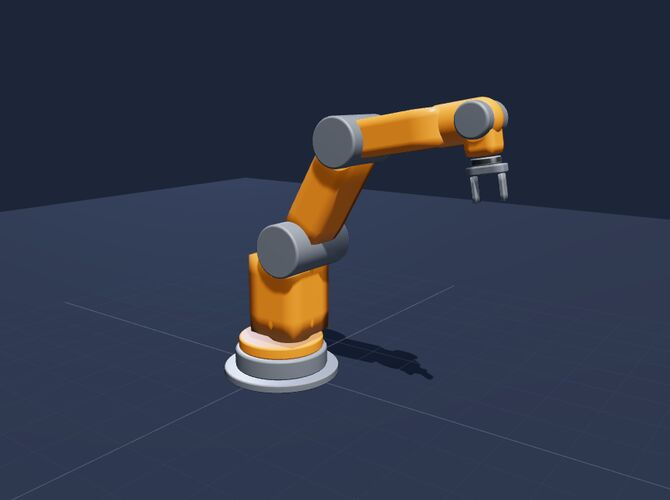
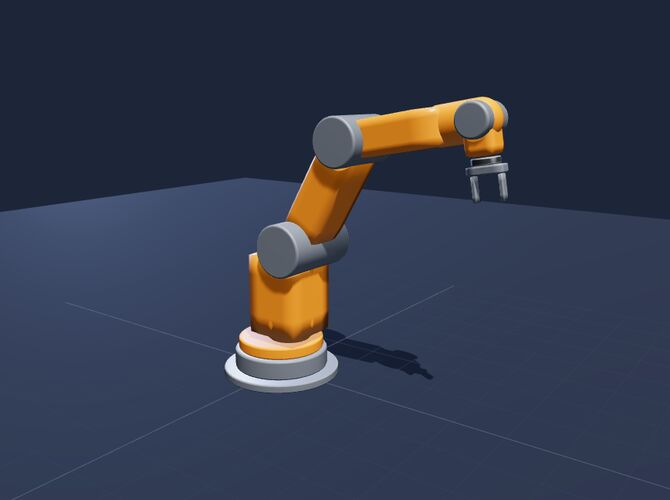
Dark mode: a soft rim light on every 3D view, and the gallery joint rings
- RA.darkParts adds a cool, low back light (made from the key light of each scene)
  in dark mode only: it outlines the parts, black tyres included, without lighting
  the floor much. Off in light mode.
- Home gallery: its colours are recomputed from a base, so darkParts now tells it to
  recompute; the small black joint rings become graphite like everywhere else.
- Dark thumbnails re-rendered.

Claude-Session: https://claude.ai/code/session_015VqmnNLeFGZq3AXD4Dp2x4

diff --git a/sw.js b/sw.js
@@ -1,7 +1,7 @@
 // sw.js — generated by tools/build-offline.mjs from tools/sw-src.js: do not edit.
-const VERSION = 'b208fe3f3b', SIZE = 6136980;
-const FILES = {"/404.html":"8da2896bfe","/anatomy-cobot.html":"7d10f8a178","/anatomy-delta.html":"abfc04b726","/anatomy-drives.html":"709df47092","/anatomy-gantry.html":"e976796c89","/anatomy-humanoid.html":"1c500f632e","/anatomy-mobile.html":"6033337528","/anatomy-quadrotor.html":"a2779ee015","/anatomy-scara.html":"f6701099e2","/anatomy-stewart.html":"2a8febbaf9","/anatomy-wheels.html":"84d128e5ca","/anatomy.html":"a5cc754e46","/anatomy.js":"533faaa633","/arm.html":"9c291c0d91","/articulated.html":"3ca4e13825","/build.html":"7d7dfbf3de","/build.js":"0a2baa5079","/certificate.html":"a6a7211ef2","/certificate.js":"ab7075d874","/cobot.html":"0cbf7553ad","/courses.js":"a4b9db9717","/delta.html":"733be8f32e","/dharm.js":"f252a8bdfb","/gantry.html":"7a193c1d16","/glossary-data.js":"711968298a","/glossary.html":"e0e524d82c","/glossary.js":"a9f3a57f23","/helpers.js":"b4971d3e57","/i18n/fr-404.js":"b7c9798e34","/i18n/fr-anatomy-cobot.js":"61a14319c6","/i18n/fr-anatomy-delta.js":"a361272e30","/i18n/fr-anatomy-drives.js":"3dfd6859ee","/i18n/fr-anatomy-gantry.js":"671c38ec9e","/i18n/fr-anatomy-humanoid.js":"395565af9a","/i18n/fr-anatomy-mobile.js":"664b4f1b48","/i18n/fr-anatomy-quadrotor.js":"90fc91787a","/i18n/fr-anatomy-scara.js":"333783da16","/i18n/fr-anatomy-stewart.js":"1517fa8690","/i18n/fr-anatomy-wheels.js":"bbdad603aa","/i18n/fr-anatomy.js":"df3d3ff246","/i18n/fr-arm.js":"2fc722f1e5","/i18n/fr-articulated.js":"3405e2fcbe","/i18n/fr-build.js":"599c9b5ad7","/i18n/fr-cobot.js":"427e255d11","/i18n/fr-common.js":"edbf6d9fe4","/i18n/fr-delta.js":"a85602b153","/i18n/fr-gantry.js":"c42f143b51","/i18n/fr-index.js":"7d1c059d77","/i18n/fr-learn-advanced.js":"61172f6fa8","/i18n/fr-learn-armlab.js":"bd4cda8709","/i18n/fr-learn-control.js":"384ea91f48","/i18n/fr-learn-intelligence.js":"941cf5bc75","/i18n/fr-learn-mathkit.js":"fa55b6744c","/i18n/fr-learn-maths.js":"f627261e01","/i18n/fr-learn-mobile-pro.js":"2d7e75d703","/i18n/fr-learn-mobile.js":"33ba8b2d70","/i18n/fr-learn-model.js":"919ecc5874","/i18n/fr-learn-ros.js":"602763de5f","/i18n/fr-learn-singularities.js":"d5bd02c934","/i18n/fr-learn-world.js":"aa27b7d829","/i18n/fr-learn.js":"d456d2f035","/i18n/fr-mobile.js":"7afb8fba3a","/i18n/fr-scara.js":"ffeb5e9ad7","/i18n/fr-wheels.js":"a13de46aca","/icons/apple-touch-icon.png":"00f0670f9f","/icons/icon-192.png":"ba0ef106c9","/icons/icon-512.png":"3983a293fb","/icons/maskable-512.png":"b1db7520b1","/index.html":"6ebba96c9d","/inside-demo.js":"fc4b6abd6a","/learn-advanced.html":"4c3f66c544","/learn-armlab.html":"98c005a104","/learn-control.html":"db00d1adfe","/learn-intelligence.html":"a782210d76","/learn-mathkit.html":"fcd1708c96","/learn-maths.html":"1747dcea95","/learn-mobile-pro.html":"8bf43fc07d","/learn-mobile-widgets.js":"19a711a9ef","/learn-mobile.html":"18a5aeb9b1","/learn-model.html":"e087a017da","/learn-more-widgets.js":"95f8081e6a","/learn-ros.html":"e59e09bc45","/learn-singularities.html":"7db6a141f5","/learn-widgets.js":"86e5dd2661","/learn-world.html":"3a8d499bc0","/learn.html":"69f4b6a049","/lesson-quiz.js":"42c2b9499c","/logo.svg":"438dd51dd6","/manifest.webmanifest":"ee43b67fc0","/mobile.html":"38676a123f","/nav.js":"65dca0fab5","/offline.html":"75f692a716","/ops-demo.js":"f43761d966","/revision-data.js":"56ef77afc0","/revision.html":"f0fbcb7907","/revision.js":"6e67e8ffc8","/scara.html":"e84573f74f","/search-index.js":"d1ac932e4c","/search.js":"9e34079316","/sensors.html":"55313d685d","/sensors.js":"adfc65aced","/style.css":"29efdb93d9","/system-demo.js":"70890a7894","/thumbs/anatomy-cobot-dark.jpg":"8f806f60cb","/thumbs/anatomy-cobot.jpg":"945d4b3ce7","/thumbs/anatomy-dark.jpg":"6aaddd8c79","/thumbs/anatomy-delta-dark.jpg":"989d9248da","/thumbs/anatomy-delta.jpg":"6f555a41b8","/thumbs/anatomy-drives-dark.jpg":"f8dc3db4b0","/thumbs/anatomy-drives.jpg":"3492d264ef","/thumbs/anatomy-gantry-dark.jpg":"f7626939e7","/thumbs/anatomy-gantry.jpg":"b3f76550f3","/thumbs/anatomy-humanoid-dark.jpg":"3c8f4699f4","/thumbs/anatomy-humanoid.jpg":"f708a99300","/thumbs/anatomy-mobile-dark.jpg":"a59d07af3c","/thumbs/anatomy-mobile.jpg":"b60e58446c","/thumbs/anatomy-quadrotor-dark.jpg":"cdfbd088ce","/thumbs/anatomy-quadrotor.jpg":"1b029683c1","/thumbs/anatomy-scara-dark.jpg":"089d8eb42d","/thumbs/anatomy-scara.jpg":"70d4036498","/thumbs/anatomy-stewart-dark.jpg":"5ab9feea4c","/thumbs/anatomy-stewart.jpg":"e3f5e710b4","/thumbs/anatomy-wheels-dark.jpg":"48bec5cbeb","/thumbs/anatomy-wheels.jpg":"02136686d9","/thumbs/anatomy.jpg":"b8d89487b3","/vendor/addons/controls/OrbitControls.js":"7909173281","/vendor/three.module.min.js":"2992ecd75d","/wheel-lab.js":"474f507834","/wheels.html":"65b2316230"};
-const SIZES = {"/404.html":1751,"/anatomy-cobot.html":14488,"/anatomy-delta.html":14453,"/anatomy-drives.html":15834,"/anatomy-gantry.html":14316,"/anatomy-humanoid.html":16268,"/anatomy-mobile.html":14597,"/anatomy-quadrotor.html":15723,"/anatomy-scara.html":14083,"/anatomy-stewart.html":15492,"/anatomy-wheels.html":15209,"/anatomy.html":14536,"/anatomy.js":93303,"/arm.html":17492,"/articulated.html":34048,"/build.html":2147,"/build.js":41249,"/certificate.html":1779,"/certificate.js":11669,"/cobot.html":33638,"/courses.js":4521,"/delta.html":40661,"/dharm.js":7212,"/gantry.html":19830,"/glossary-data.js":83474,"/glossary.html":1822,"/glossary.js":7125,"/helpers.js":9318,"/i18n/fr-404.js":416,"/i18n/fr-anatomy-cobot.js":3704,"/i18n/fr-anatomy-delta.js":4078,"/i18n/fr-anatomy-drives.js":5220,"/i18n/fr-anatomy-gantry.js":3921,"/i18n/fr-anatomy-humanoid.js":5770,"/i18n/fr-anatomy-mobile.js":4173,"/i18n/fr-anatomy-quadrotor.js":5224,"/i18n/fr-anatomy-scara.js":3557,"/i18n/fr-anatomy-stewart.js":4839,"/i18n/fr-anatomy-wheels.js":4821,"/i18n/fr-anatomy.js":3693,"/i18n/fr-arm.js":5690,"/i18n/fr-articulated.js":8775,"/i18n/fr-build.js":346,"/i18n/fr-cobot.js":11159,"/i18n/fr-common.js":9616,"/i18n/fr-delta.js":12909,"/i18n/fr-gantry.js":6690,"/i18n/fr-index.js":11995,"/i18n/fr-learn-advanced.js":66498,"/i18n/fr-learn-armlab.js":32670,"/i18n/fr-learn-control.js":104453,"/i18n/fr-learn-intelligence.js":65307,"/i18n/fr-learn-mathkit.js":90003,"/i18n/fr-learn-maths.js":52007,"/i18n/fr-learn-mobile-pro.js":151135,"/i18n/fr-learn-mobile.js":125679,"/i18n/fr-learn-model.js":78628,"/i18n/fr-learn-ros.js":58956,"/i18n/fr-learn-singularities.js":65849,"/i18n/fr-learn-world.js":76717,"/i18n/fr-learn.js":35993,"/i18n/fr-mobile.js":8757,"/i18n/fr-scara.js":6606,"/i18n/fr-wheels.js":30722,"/icons/apple-touch-icon.png":2867,"/icons/icon-192.png":5748,"/icons/icon-512.png":16840,"/icons/maskable-512.png":7246,"/index.html":80101,"/inside-demo.js":79937,"/learn-advanced.html":102382,"/learn-armlab.html":61892,"/learn-control.html":170846,"/learn-intelligence.html":106162,"/learn-mathkit.html":148640,"/learn-maths.html":104749,"/learn-mobile-pro.html":181318,"/learn-mobile-widgets.js":74650,"/learn-mobile.html":146762,"/learn-model.html":178189,"/learn-more-widgets.js":38015,"/learn-ros.html":120578,"/learn-singularities.html":100869,"/learn-widgets.js":10300,"/learn-world.html":116331,"/learn.html":97096,"/lesson-quiz.js":10831,"/logo.svg":456,"/manifest.webmanifest":785,"/mobile.html":30163,"/nav.js":50301,"/offline.html":4270,"/ops-demo.js":88834,"/revision-data.js":226171,"/revision.html":1773,"/revision.js":6057,"/scara.html":27280,"/search-index.js":378933,"/search.js":9405,"/sensors.html":1834,"/sensors.js":47046,"/style.css":163446,"/system-demo.js":136819,"/thumbs/anatomy-cobot-dark.jpg":12796,"/thumbs/anatomy-cobot.jpg":25754,"/thumbs/anatomy-dark.jpg":14210,"/thumbs/anatomy-delta-dark.jpg":14446,"/thumbs/anatomy-delta.jpg":31655,"/thumbs/anatomy-drives-dark.jpg":12321,"/thumbs/anatomy-drives.jpg":19386,"/thumbs/anatomy-gantry-dark.jpg":15379,"/thumbs/anatomy-gantry.jpg":34232,"/thumbs/anatomy-humanoid-dark.jpg":11673,"/thumbs/anatomy-humanoid.jpg":35261,"/thumbs/anatomy-mobile-dark.jpg":9134,"/thumbs/anatomy-mobile.jpg":18117,"/thumbs/anatomy-quadrotor-dark.jpg":9784,"/thumbs/anatomy-quadrotor.jpg":15499,"/thumbs/anatomy-scara-dark.jpg":12754,"/thumbs/anatomy-scara.jpg":31690,"/thumbs/anatomy-stewart-dark.jpg":13938,"/thumbs/anatomy-stewart.jpg":31592,"/thumbs/anatomy-wheels-dark.jpg":21527,"/thumbs/anatomy-wheels.jpg":42363,"/thumbs/anatomy.jpg":31308,"/vendor/addons/controls/OrbitControls.js":29868,"/vendor/three.module.min.js":670681,"/wheel-lab.js":31986,"/wheels.html":61090};
+const VERSION = 'bb93137cd6', SIZE = 6141405;
+const FILES = {"/404.html":"8da2896bfe","/anatomy-cobot.html":"7d10f8a178","/anatomy-delta.html":"abfc04b726","/anatomy-drives.html":"709df47092","/anatomy-gantry.html":"e976796c89","/anatomy-humanoid.html":"1c500f632e","/anatomy-mobile.html":"6033337528","/anatomy-quadrotor.html":"a2779ee015","/anatomy-scara.html":"f6701099e2","/anatomy-stewart.html":"2a8febbaf9","/anatomy-wheels.html":"84d128e5ca","/anatomy.html":"a5cc754e46","/anatomy.js":"533faaa633","/arm.html":"9c291c0d91","/articulated.html":"3ca4e13825","/build.html":"7d7dfbf3de","/build.js":"0a2baa5079","/certificate.html":"a6a7211ef2","/certificate.js":"ab7075d874","/cobot.html":"0cbf7553ad","/courses.js":"a4b9db9717","/delta.html":"733be8f32e","/dharm.js":"f252a8bdfb","/gantry.html":"7a193c1d16","/glossary-data.js":"711968298a","/glossary.html":"e0e524d82c","/glossary.js":"a9f3a57f23","/helpers.js":"b4971d3e57","/i18n/fr-404.js":"b7c9798e34","/i18n/fr-anatomy-cobot.js":"61a14319c6","/i18n/fr-anatomy-delta.js":"a361272e30","/i18n/fr-anatomy-drives.js":"3dfd6859ee","/i18n/fr-anatomy-gantry.js":"671c38ec9e","/i18n/fr-anatomy-humanoid.js":"395565af9a","/i18n/fr-anatomy-mobile.js":"664b4f1b48","/i18n/fr-anatomy-quadrotor.js":"90fc91787a","/i18n/fr-anatomy-scara.js":"333783da16","/i18n/fr-anatomy-stewart.js":"1517fa8690","/i18n/fr-anatomy-wheels.js":"bbdad603aa","/i18n/fr-anatomy.js":"df3d3ff246","/i18n/fr-arm.js":"2fc722f1e5","/i18n/fr-articulated.js":"3405e2fcbe","/i18n/fr-build.js":"599c9b5ad7","/i18n/fr-cobot.js":"427e255d11","/i18n/fr-common.js":"edbf6d9fe4","/i18n/fr-delta.js":"a85602b153","/i18n/fr-gantry.js":"c42f143b51","/i18n/fr-index.js":"7d1c059d77","/i18n/fr-learn-advanced.js":"61172f6fa8","/i18n/fr-learn-armlab.js":"bd4cda8709","/i18n/fr-learn-control.js":"384ea91f48","/i18n/fr-learn-intelligence.js":"941cf5bc75","/i18n/fr-learn-mathkit.js":"fa55b6744c","/i18n/fr-learn-maths.js":"f627261e01","/i18n/fr-learn-mobile-pro.js":"2d7e75d703","/i18n/fr-learn-mobile.js":"33ba8b2d70","/i18n/fr-learn-model.js":"919ecc5874","/i18n/fr-learn-ros.js":"602763de5f","/i18n/fr-learn-singularities.js":"d5bd02c934","/i18n/fr-learn-world.js":"aa27b7d829","/i18n/fr-learn.js":"d456d2f035","/i18n/fr-mobile.js":"7afb8fba3a","/i18n/fr-scara.js":"ffeb5e9ad7","/i18n/fr-wheels.js":"a13de46aca","/icons/apple-touch-icon.png":"00f0670f9f","/icons/icon-192.png":"ba0ef106c9","/icons/icon-512.png":"3983a293fb","/icons/maskable-512.png":"b1db7520b1","/index.html":"cc30bdda93","/inside-demo.js":"fc4b6abd6a","/learn-advanced.html":"4c3f66c544","/learn-armlab.html":"98c005a104","/learn-control.html":"db00d1adfe","/learn-intelligence.html":"a782210d76","/learn-mathkit.html":"fcd1708c96","/learn-maths.html":"1747dcea95","/learn-mobile-pro.html":"8bf43fc07d","/learn-mobile-widgets.js":"19a711a9ef","/learn-mobile.html":"18a5aeb9b1","/learn-model.html":"e087a017da","/learn-more-widgets.js":"95f8081e6a","/learn-ros.html":"e59e09bc45","/learn-singularities.html":"7db6a141f5","/learn-widgets.js":"86e5dd2661","/learn-world.html":"3a8d499bc0","/learn.html":"69f4b6a049","/lesson-quiz.js":"42c2b9499c","/logo.svg":"438dd51dd6","/manifest.webmanifest":"ee43b67fc0","/mobile.html":"38676a123f","/nav.js":"7959ff7ac2","/offline.html":"75f692a716","/ops-demo.js":"f43761d966","/revision-data.js":"56ef77afc0","/revision.html":"f0fbcb7907","/revision.js":"6e67e8ffc8","/scara.html":"e84573f74f","/search-index.js":"d1ac932e4c","/search.js":"9e34079316","/sensors.html":"55313d685d","/sensors.js":"adfc65aced","/style.css":"29efdb93d9","/system-demo.js":"70890a7894","/thumbs/anatomy-cobot-dark.jpg":"2da05751a7","/thumbs/anatomy-cobot.jpg":"945d4b3ce7","/thumbs/anatomy-dark.jpg":"4e9cc06fc1","/thumbs/anatomy-delta-dark.jpg":"c63cb02216","/thumbs/anatomy-delta.jpg":"6f555a41b8","/thumbs/anatomy-drives-dark.jpg":"297e0c0f0b","/thumbs/anatomy-drives.jpg":"3492d264ef","/thumbs/anatomy-gantry-dark.jpg":"dffd20ad75","/thumbs/anatomy-gantry.jpg":"b3f76550f3","/thumbs/anatomy-humanoid-dark.jpg":"deafb819b0","/thumbs/anatomy-humanoid.jpg":"f708a99300","/thumbs/anatomy-mobile-dark.jpg":"25635a73f6","/thumbs/anatomy-mobile.jpg":"b60e58446c","/thumbs/anatomy-quadrotor-dark.jpg":"0687f62045","/thumbs/anatomy-quadrotor.jpg":"1b029683c1","/thumbs/anatomy-scara-dark.jpg":"c8b71365f1","/thumbs/anatomy-scara.jpg":"70d4036498","/thumbs/anatomy-stewart-dark.jpg":"baff1149f9","/thumbs/anatomy-stewart.jpg":"e3f5e710b4","/thumbs/anatomy-wheels-dark.jpg":"bb00d064f0","/thumbs/anatomy-wheels.jpg":"02136686d9","/thumbs/anatomy.jpg":"b8d89487b3","/vendor/addons/controls/OrbitControls.js":"7909173281","/vendor/three.module.min.js":"2992ecd75d","/wheel-lab.js":"474f507834","/wheels.html":"65b2316230"};
+const SIZES = {"/404.html":1751,"/anatomy-cobot.html":14488,"/anatomy-delta.html":14453,"/anatomy-drives.html":15834,"/anatomy-gantry.html":14316,"/anatomy-humanoid.html":16268,"/anatomy-mobile.html":14597,"/anatomy-quadrotor.html":15723,"/anatomy-scara.html":14083,"/anatomy-stewart.html":15492,"/anatomy-wheels.html":15209,"/anatomy.html":14536,"/anatomy.js":93303,"/arm.html":17492,"/articulated.html":34048,"/build.html":2147,"/build.js":41249,"/certificate.html":1779,"/certificate.js":11669,"/cobot.html":33638,"/courses.js":4521,"/delta.html":40661,"/dharm.js":7212,"/gantry.html":19830,"/glossary-data.js":83474,"/glossary.html":1822,"/glossary.js":7125,"/helpers.js":9318,"/i18n/fr-404.js":416,"/i18n/fr-anatomy-cobot.js":3704,"/i18n/fr-anatomy-delta.js":4078,"/i18n/fr-anatomy-drives.js":5220,"/i18n/fr-anatomy-gantry.js":3921,"/i18n/fr-anatomy-humanoid.js":5770,"/i18n/fr-anatomy-mobile.js":4173,"/i18n/fr-anatomy-quadrotor.js":5224,"/i18n/fr-anatomy-scara.js":3557,"/i18n/fr-anatomy-stewart.js":4839,"/i18n/fr-anatomy-wheels.js":4821,"/i18n/fr-anatomy.js":3693,"/i18n/fr-arm.js":5690,"/i18n/fr-articulated.js":8775,"/i18n/fr-build.js":346,"/i18n/fr-cobot.js":11159,"/i18n/fr-common.js":9616,"/i18n/fr-delta.js":12909,"/i18n/fr-gantry.js":6690,"/i18n/fr-index.js":11995,"/i18n/fr-learn-advanced.js":66498,"/i18n/fr-learn-armlab.js":32670,"/i18n/fr-learn-control.js":104453,"/i18n/fr-learn-intelligence.js":65307,"/i18n/fr-learn-mathkit.js":90003,"/i18n/fr-learn-maths.js":52007,"/i18n/fr-learn-mobile-pro.js":151135,"/i18n/fr-learn-mobile.js":125679,"/i18n/fr-learn-model.js":78628,"/i18n/fr-learn-ros.js":58956,"/i18n/fr-learn-singularities.js":65849,"/i18n/fr-learn-world.js":76717,"/i18n/fr-learn.js":35993,"/i18n/fr-mobile.js":8757,"/i18n/fr-scara.js":6606,"/i18n/fr-wheels.js":30722,"/icons/apple-touch-icon.png":2867,"/icons/icon-192.png":5748,"/icons/icon-512.png":16840,"/icons/maskable-512.png":7246,"/index.html":80171,"/inside-demo.js":79937,"/learn-advanced.html":102382,"/learn-armlab.html":61892,"/learn-control.html":170846,"/learn-intelligence.html":106162,"/learn-mathkit.html":148640,"/learn-maths.html":104749,"/learn-mobile-pro.html":181318,"/learn-mobile-widgets.js":74650,"/learn-mobile.html":146762,"/learn-model.html":178189,"/learn-more-widgets.js":38015,"/learn-ros.html":120578,"/learn-singularities.html":100869,"/learn-widgets.js":10300,"/learn-world.html":116331,"/learn.html":97096,"/lesson-quiz.js":10831,"/logo.svg":456,"/manifest.webmanifest":785,"/mobile.html":30163,"/nav.js":51363,"/offline.html":4270,"/ops-demo.js":88834,"/revision-data.js":226171,"/revision.html":1773,"/revision.js":6057,"/scara.html":27280,"/search-index.js":378933,"/search.js":9405,"/sensors.html":1834,"/sensors.js":47046,"/style.css":163446,"/system-demo.js":136819,"/thumbs/anatomy-cobot-dark.jpg":12892,"/thumbs/anatomy-cobot.jpg":25754,"/thumbs/anatomy-dark.jpg":14143,"/thumbs/anatomy-delta-dark.jpg":14442,"/thumbs/anatomy-delta.jpg":31655,"/thumbs/anatomy-drives-dark.jpg":14375,"/thumbs/anatomy-drives.jpg":19386,"/thumbs/anatomy-gantry-dark.jpg":14927,"/thumbs/anatomy-gantry.jpg":34232,"/thumbs/anatomy-humanoid-dark.jpg":11807,"/thumbs/anatomy-humanoid.jpg":35261,"/thumbs/anatomy-mobile-dark.jpg":11426,"/thumbs/anatomy-mobile.jpg":18117,"/thumbs/anatomy-quadrotor-dark.jpg":10078,"/thumbs/anatomy-quadrotor.jpg":15499,"/thumbs/anatomy-scara-dark.jpg":12468,"/thumbs/anatomy-scara.jpg":31690,"/thumbs/anatomy-stewart-dark.jpg":13796,"/thumbs/anatomy-stewart.jpg":31592,"/thumbs/anatomy-wheels-dark.jpg":20901,"/thumbs/anatomy-wheels.jpg":42363,"/thumbs/anatomy.jpg":31308,"/vendor/addons/controls/OrbitControls.js":29868,"/vendor/three.module.min.js":670681,"/wheel-lab.js":31986,"/wheels.html":61090};
 const CORE = ["/index.html","/offline.html","/certificate.html","/style.css","/nav.js","/helpers.js","/dharm.js","/lesson-quiz.js","/search.js","/search-index.js","/courses.js","/certificate.js","/logo.svg","/manifest.webmanifest","/i18n/fr-common.js","/i18n/fr-index.js","/vendor/three.module.min.js","/vendor/addons/controls/OrbitControls.js","/icons/apple-touch-icon.png","/icons/icon-192.png","/icons/icon-512.png","/icons/maskable-512.png","/thumbs/anatomy-cobot-dark.jpg","/thumbs/anatomy-cobot.jpg","/thumbs/anatomy-dark.jpg","/thumbs/anatomy-delta-dark.jpg","/thumbs/anatomy-delta.jpg","/thumbs/anatomy-drives-dark.jpg","/thumbs/anatomy-drives.jpg","/thumbs/anatomy-gantry-dark.jpg","/thumbs/anatomy-gantry.jpg","/thumbs/anatomy-humanoid-dark.jpg","/thumbs/anatomy-humanoid.jpg","/thumbs/anatomy-mobile-dark.jpg","/thumbs/anatomy-mobile.jpg","/thumbs/anatomy-quadrotor-dark.jpg","/thumbs/anatomy-quadrotor.jpg","/thumbs/anatomy-scara-dark.jpg","/thumbs/anatomy-scara.jpg","/thumbs/anatomy-stewart-dark.jpg","/thumbs/anatomy-stewart.jpg","/thumbs/anatomy-wheels-dark.jpg","/thumbs/anatomy-wheels.jpg","/thumbs/anatomy.jpg"];
 // The service worker of Robotics Atlas (offline mode). tools/build-offline.mjs writes sw.js = the list of files
 // (FILES: url → content hash, SIZE: total bytes, CORE: the files kept at install) + this code.

diff --git a/nav.js b/nav.js
@@ -268,13 +268,20 @@
   // Every 3D scene calls RA.darkParts(scene). In dark mode, any black or very dark part of a robot (caps, tyres, forks,
   // frames, arrows) is shown light grey, so that it stands out on the night background; in light mode its own colour
   // comes back. Floors, grids, shadows and the colours the code changes on purpose (highlights) are left alone.
-  RA.darkParts = function (scene) {
+  RA.darkParts = function (scene, opts) {
     if (!scene || !scene.traverse) return;
+    let rim = null;                                                        // dark mode: a cool back light that draws the outline of the parts (black tyres too)
     const KEEP = new Set(['1d2638', '253047', '2a3550', '242f44', '27324a', '2b2e33', '262626', '0e1420', '4b5870', '3d4b66']);   // floors and pads
     const lum = (h) => { const v = [0, 2, 4].map((i) => parseInt(h.substr(i, 2), 16) / 255); return 0.2126 * v[0] + 0.7152 * v[1] + 0.0722 * v[2]; };
     const dark = () => (root.dataset.theme || (matchMedia('(prefers-color-scheme: light)').matches ? 'light' : 'dark')) === 'dark';
     const apply = () => {
-      const D = dark();
+      const D = dark(); let changed = false;
+      if (!rim) {                                                            // made from the key light of the scene (no need to import three.js here)
+        let key = null; scene.traverse((o) => { if (!key && o.isDirectionalLight && !o.userData.raRim) key = o; });
+        // low and behind the scene: it grazes the edges of the parts, not the floor
+        if (key) { rim = key.clone(); rim.userData.raRim = true; rim.castShadow = false; rim.color.set('#a9c4ff'); rim.position.set(-key.position.x, Math.abs(key.position.y) * 0.1 + 0.1, -key.position.z); rim.userData.k = key; scene.add(rim); }
+      }
+      if (rim) rim.intensity = D ? Math.min(0.9, rim.userData.k.intensity * 0.5) : 0;
       scene.traverse((o) => {
         if (!o.material || o.isGridHelper || o.userData.raKeep) return;
         const g = o.geometry && o.geometry.type; if (g === 'PlaneGeometry' || g === 'PlaneBufferGeometry') return;
@@ -286,9 +293,10 @@
           if (u.raDark === undefined) { const h = col.getHexString(), l = lum(h); u.raDark = h; u.raLight = KEEP.has(h) || l >= 0.36 ? null : l < 0.06 ? '6f7a8a' : '8a94a3'; }   // graphite: visible, but still darker than the light links
           if (!u.raLight) return;
           const cur = col.getHexString();
-          if (D && cur === u.raDark) col.set('#' + u.raLight); else if (!D && cur === u.raLight) col.set('#' + u.raDark);
+          if (D && cur === u.raDark) { col.set('#' + u.raLight); changed = true; } else if (!D && cur === u.raLight) { col.set('#' + u.raDark); changed = true; }
         });
       });
+      if (changed && opts && opts.onChange) opts.onChange();                 // scenes that recompute their colours from a base (home gallery)
     };
     apply();
     new MutationObserver(apply).observe(root, { attributes: true, attributeFilter: ['data-theme'] });

diff --git a/index.html b/index.html
@@ -384,7 +384,7 @@ if (renderer) {
   const LITE = innerWidth < 900;                                  // phones and small screens: cheaper rendering
   renderer.setClearColor(0x000000, 0); renderer.shadowMap.enabled = false;                    // no real-time shadows: a soft blob under the robot is enough and much cheaper
   const scene = new THREE.Scene(), camera = new THREE.PerspectiveCamera(36, 1, 0.1, 80);
-  if (window.RA && RA.darkParts) RA.darkParts(scene);   // dark mode: black parts shown light grey
+  if (window.RA && RA.darkParts) RA.darkParts(scene, { onChange: () => { greyDirty = true; } });   // dark mode: dark parts graphite; the gallery recomputes its colours
   scene.fog = new THREE.Fog(0x1f1f1f, 5, 12);
   scene.add(new THREE.HemisphereLight(0xffffff, 0x666666, 1.05));
   const sun = new THREE.DirectionalLight(0xffffff, 2.0); sun.position.set(3.2, 5.5, 2.4); sun.castShadow = false;
